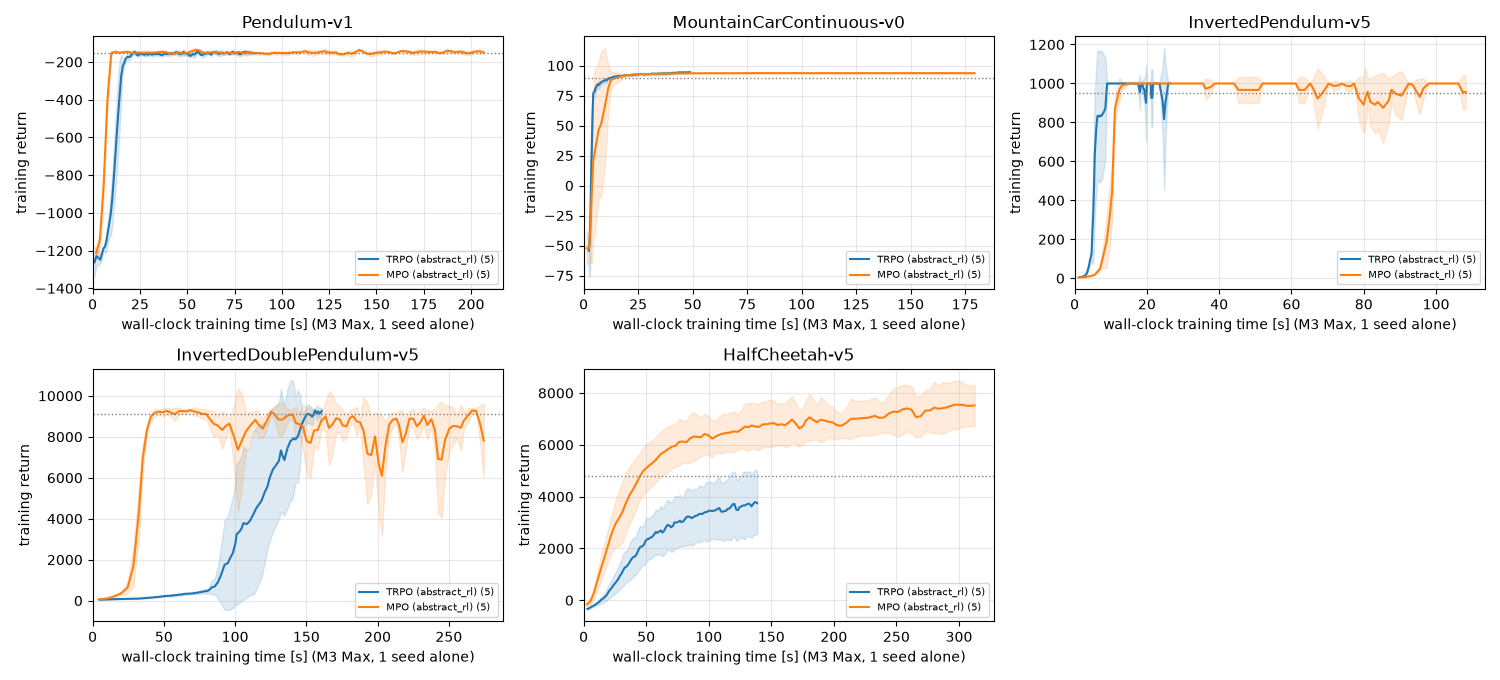
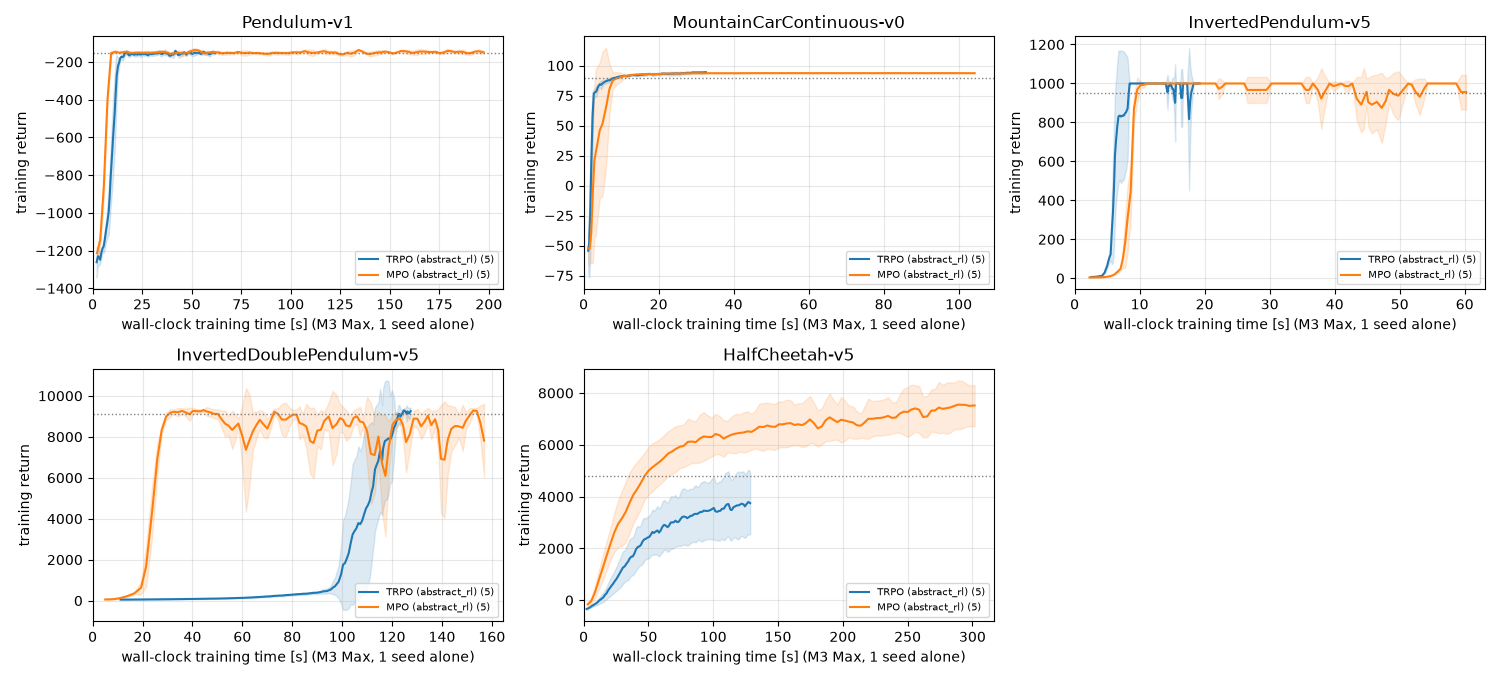
Time all environments on an idle machine

diff --git a/README.md b/README.md
@@ -83,32 +83,30 @@ Tuned settings (`conf/tune/`):
 ## Performance
 
 Training times of the runs in [Results](#results) on a MacBook Pro with an Apple M3 Max (48 GB), macOS 26.7.1, MLX
-0.32.4, Python 3.13.12, MuJoCo 3.17.0 and Gymnasium 1.4.0, measured on 2026-10-25 at 34f8be9. Wall-clock time is per
-seed and includes the start-up; an epoch is 1,000 environment steps for MPO and `policy_batch_size` steps for TRPO
-(4,000; 2,000 on InvertedPendulum-v5, 8,000 on InvertedDoublePendulum-v5).
+0.32.4, Python 3.13.12, MuJoCo 3.17.0 and Gymnasium 1.4.0. The *1 seed at a time* columns were measured on 2026-10-26
+at c8387fa on an otherwise idle machine, the *4 seeds at a time* columns on 2026-10-25 at 34f8be9, partly while a game
+was running. Wall-clock time is per seed and includes the start-up; an epoch is 1,000 environment steps for MPO and
+`policy_batch_size` steps for TRPO (4,000; 2,000 on InvertedPendulum-v5, 8,000 on InvertedDoublePendulum-v5).
 
 | Environment | Algorithm | MLX device | Steps | Wall-clock, 1 seed at a time | ms/epoch | Steps/s | Wall-clock, 4 seeds at a time | Steps/s per seed |
 |---|---|---|---|---|---|---|---|---|
-| Pendulum-v1 | TRPO | CPU | 800,000 | 1.4 min (86 s) | 428 | 9,341 | 1.8 min (106 s) | 7,560 |
-| Pendulum-v1 | MPO | GPU | 800,000 | 3.4 min (207 s) | 258 | 3,872 | 6.9 min (410–415 s) | 1,940 |
-| MountainCarContinuous-v0 † | TRPO | CPU | 400,923 | 0.9 min (51 s) | 515 | 8,096 | 1.9 min (104–124 s) | 3,618 |
-| MountainCarContinuous-v0 † | MPO | GPU | 400,027 | 3.0 min (179 s) | 485 | 2,231 | 6.4 min (367–397 s) | 1,041 |
-| InvertedPendulum-v5 † | TRPO | CPU | 150,930 | 0.4 min (26 s) | 350 | 5,768 | 0.7 min (38–52 s) | 3,554 |
-| InvertedPendulum-v5 † | MPO | GPU | 150,401 | 1.9 min (112 s) | 748 | 1,382 | 4.0 min (225–251 s) | 657 |
-| InvertedDoublePendulum-v5 † | TRPO | CPU | 605,548 | 2.7 min (161 s) | 2,143 | 3,774 | 2.5 min (143–159 s) | 4,024 |
-| InvertedDoublePendulum-v5 † | MPO | GPU | 600,488 | 4.9 min (292 s) | 487 | 2,173 | 10.5 min (616–641 s) | 1,015 |
-| HalfCheetah-v5 † | TRPO | CPU | 1,200,000 | 2.3 min (139 s) | 462 | 8,649 | 2.4 min (144–146 s) | 8,265 |
-| HalfCheetah-v5 | MPO | GPU | 1,200,000 | 5.2 min (313 s) | 260 | 3,840 | 12.5 min (746–751 s) | 1,600 |
-
-† Measured on 2026-10-25 while another application (a game) was using the GPU and the CPU, so these rows are upper
-bounds. With the game running, a Pendulum-v1 TRPO run took 93 s instead of 86 s and a HalfCheetah-v5
-MPO run 505 s instead of 313 s. The rows without † were measured on an otherwise idle machine.
+| Pendulum-v1 | TRPO | CPU | 800,000 | 1.0 min (62 s) | 309 | 12,960 | 1.8 min (106 s) | 7,560 |
+| Pendulum-v1 | MPO | GPU | 800,000 | 3.3 min (197 s) | 247 | 4,053 | 6.9 min (410–415 s) | 1,940 |
+| MountainCarContinuous-v0 | TRPO | CPU | 400,923 | 0.6 min (34 s) | 344 | 12,121 | 1.9 min (104–124 s) | 3,618 |
+| MountainCarContinuous-v0 | MPO | GPU | 400,027 | 1.7 min (104 s) | 282 | 3,837 | 6.4 min (367–397 s) | 1,041 |
+| InvertedPendulum-v5 | TRPO | CPU | 150,930 | 0.3 min (19 s) | 256 | 7,885 | 0.7 min (38–52 s) | 3,554 |
+| InvertedPendulum-v5 | MPO | GPU | 150,401 | 1.0 min (63 s) | 418 | 2,471 | 4.0 min (225–251 s) | 657 |
+| InvertedDoublePendulum-v5 | TRPO | CPU | 605,548 | 2.1 min (127 s) | 1,699 | 4,760 | 2.5 min (143–159 s) | 4,024 |
+| InvertedDoublePendulum-v5 | MPO | GPU | 600,488 | 2.8 min (166 s) | 277 | 3,826 | 10.5 min (616–641 s) | 1,015 |
+| HalfCheetah-v5 | TRPO | CPU | 1,200,000 | 2.1 min (128 s) | 428 | 9,339 | 2.4 min (144–146 s) | 8,265 |
+| HalfCheetah-v5 | MPO | GPU | 1,200,000 | 5.0 min (302 s) | 251 | 3,977 | 12.5 min (746–751 s) | 1,600 |
 
 *1 seed at a time* is seed 1 alone; *4 seeds at a time* is seeds 2–5 run in parallel (the four runs share the GPU, so
 each one is slower, but together they reach about 6,400 steps/s on HalfCheetah). *ms/epoch* is the wall-clock time
-divided by the number of epochs. The rows were measured before c8387fa, which adds the NumPy host actor (see
-[MLX port (experiment)](#mlx-port-experiment)) to the 1-D action environments (all but HalfCheetah-v5); the training
-results do not change.
+divided by the number of epochs. c8387fa adds the NumPy host actor (see [MLX port (experiment)](#mlx-port-experiment))
+to the 1-D action environments (all but HalfCheetah-v5); it cuts a Pendulum-v1 TRPO epoch from 428 ms to 309 ms and an
+MPO epoch from 258 ms to 247 ms, and the training returns of seed 1 are bit-identical to the runs in
+[Results](#results) in every environment.
 
 Compared with the PyTorch implementation on `main` (eb41282, CPU, measured on 2026-10-24 on the same Mac with the same
 benchmark script, median of epochs 50–59), a HalfCheetah MPO epoch takes 6.19 s with PyTorch (161 steps/s) and 0.23 s
@@ -119,23 +117,22 @@ with MLX (c37bd7b), about 27× faster.
 The training return of [Results](#results) over the wall-clock training time in seconds instead of the environment
 steps, MPO and TRPO on the same axis. Mean ± std over seeds 1–5 at the same environment step; the time axis is the
 clock of seed 1 run alone (the *1 seed at a time* column of [Performance](#performance), start-up included), the
-time at which each epoch was logged. The time axes of the environments marked † in [Performance](#performance) were
-measured with a game running and are upper bounds.
+time at which each epoch was logged.
 
 ![Training return over wall-clock training time, mean ± std over 5 seeds; the dotted line is the threshold](docs/return_over_time.png)
 
 | Environment | Algorithm | Time to threshold | Full run |
 |---|---|---|---|
-| Pendulum-v1 | TRPO | 20 s | 86 s |
-| Pendulum-v1 | MPO | 9 s | 207 s |
-| MountainCarContinuous-v0 † | TRPO | 11 s | 51 s |
-| MountainCarContinuous-v0 † | MPO | 7 s | 179 s |
-| InvertedPendulum-v5 † | TRPO | 6 s | 26 s |
-| InvertedPendulum-v5 † | MPO | 12 s | 112 s |
-| InvertedDoublePendulum-v5 † | TRPO | 134 s | 161 s |
-| InvertedDoublePendulum-v5 † | MPO | 40 s | 292 s |
-| HalfCheetah-v5 † | TRPO | 97 s (2/5 seeds) | 139 s |
-| HalfCheetah-v5 | MPO | 45 s | 313 s |
+| Pendulum-v1 | TRPO | 15 s | 62 s |
+| Pendulum-v1 | MPO | 8 s | 197 s |
+| MountainCarContinuous-v0 | TRPO | 7 s | 34 s |
+| MountainCarContinuous-v0 | MPO | 5 s | 104 s |
+| InvertedPendulum-v5 | TRPO | 7 s | 19 s |
+| InvertedPendulum-v5 | MPO | 9 s | 63 s |
+| InvertedDoublePendulum-v5 | TRPO | 116 s | 127 s |
+| InvertedDoublePendulum-v5 | MPO | 29 s | 166 s |
+| HalfCheetah-v5 | TRPO | 90 s (2/5 seeds) | 128 s |
+| HalfCheetah-v5 | MPO | 47 s | 302 s |
 
 *Time to threshold* is the time of seed 1 at the median *steps to threshold* of [Results](#results).
 
